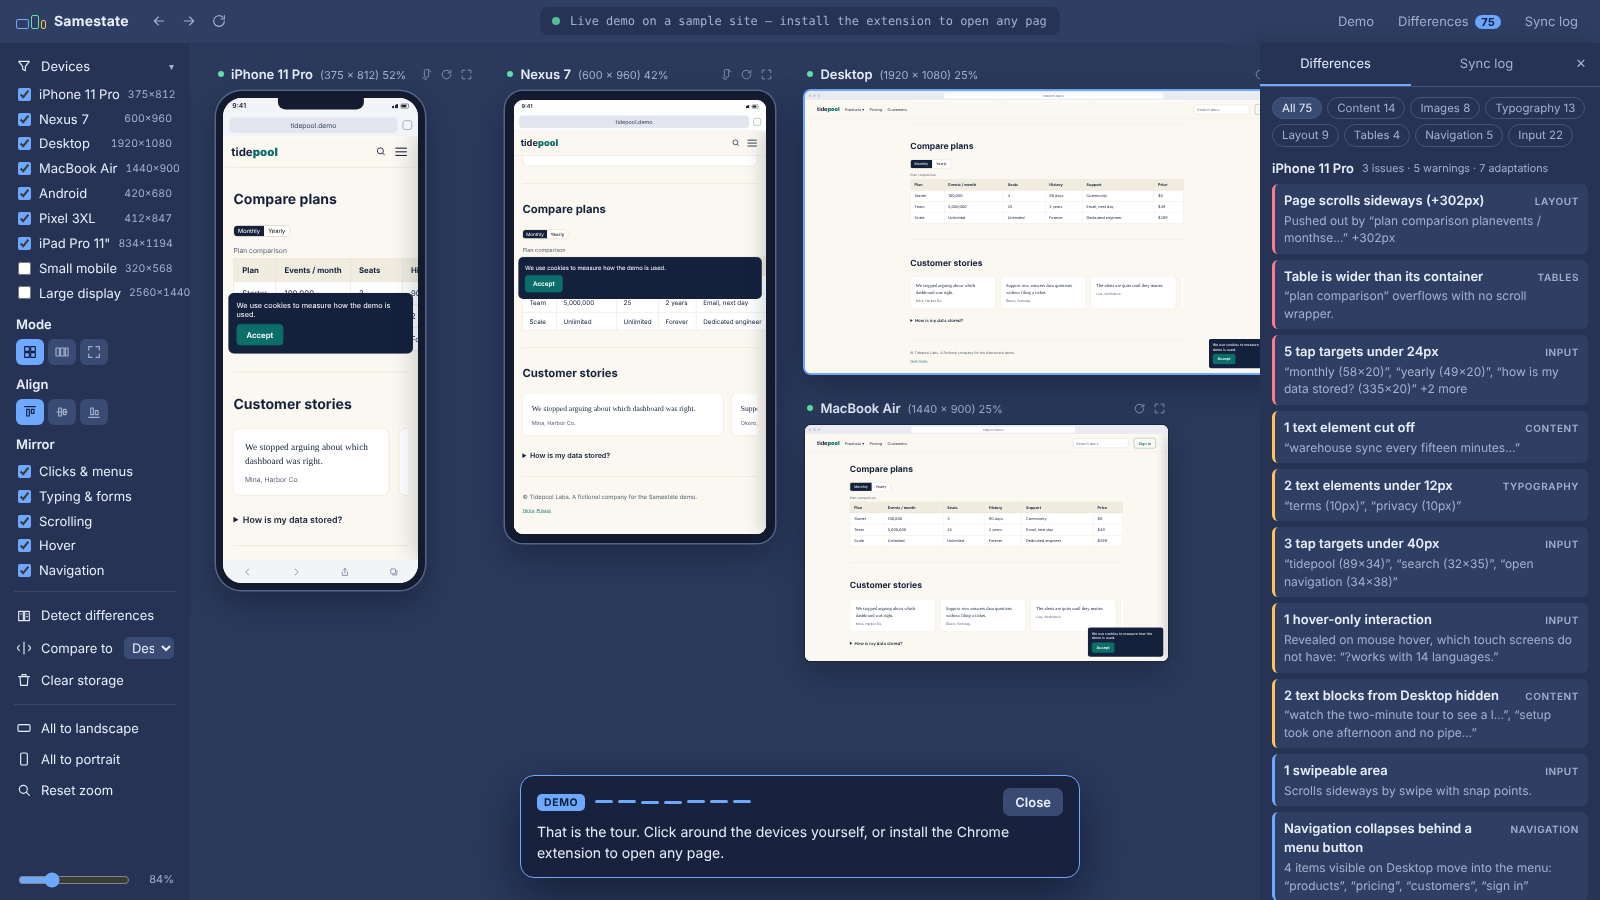
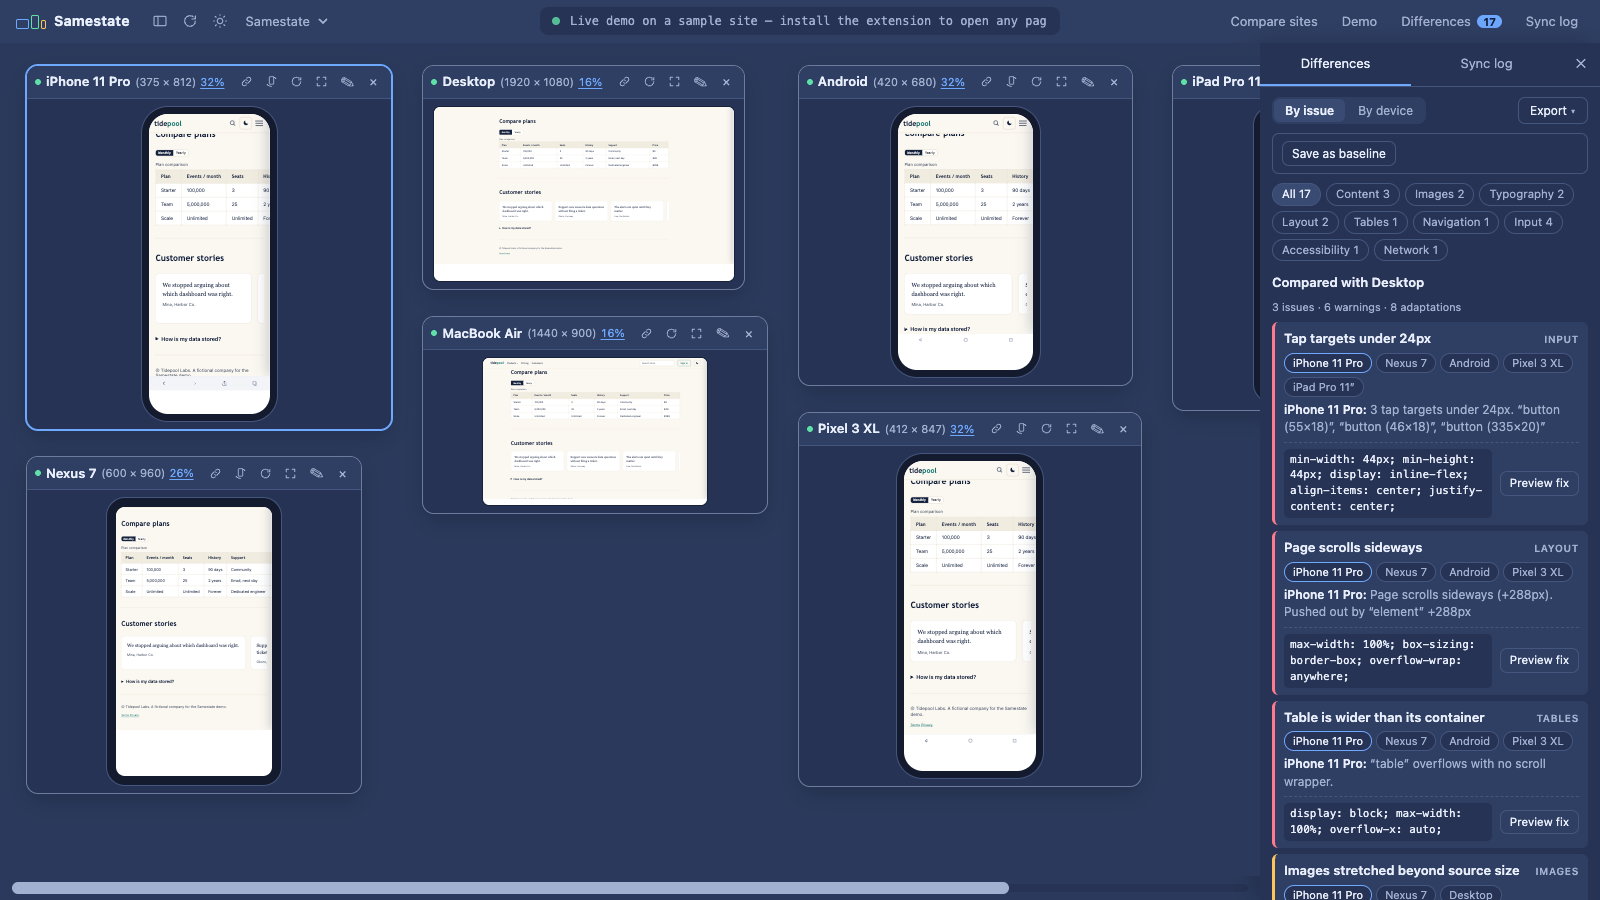
Re-record the README's GIF and screenshots from the current demo
The demo GIF, the sync and report screenshots and the link-preview card
showed the November 12 interface. tools/readme-media.mjs records them
from docs/ in headless Chrome: the guided demo's Products click on every
device, and the difference report with its new categories.

diff --git a/changelogs/CHANGELOG-readme-media.md b/changelogs/CHANGELOG-readme-media.md
@@ -1,0 +1,26 @@
+# README Media — Re-recorded from the Current Demo
+
+- `docs/media/samestate-demo.gif`: the guided demo's first step (the Desktop clicks Products; every phone and tablet opens its menu first), 11 s at 10 fps, 960×540
+- `docs/media/screenshot-sync.png`: the end of that step, all seven devices with Products open, now 1600×900
+- `docs/media/screenshot-report.png`: the difference report on the pricing table, with the Accessibility and Network categories, 1600×900
+- `docs/media/card.png`: the sync screenshot at 1200×675, the image link previews show for the live demo
+- `tools/readme-media.mjs`: new script that records all four from `docs/` in headless Chrome
+- CONTRIBUTING: the new script in the tools list
+
+---
+
+## Summary
+The README's GIF and screenshots dated from November 12 and showed the old interface: no top-bar theme menu, day/night button or Compare sites, and none of the newer report categories. They now show the current demo. `samestate-banner.png` (November 14) is unchanged.
+
+---
+
+## 1. Capture Script
+**Files:** `tools/readme-media.mjs`
+**What:** Serves the repo, opens `docs/index.html` in headless Chrome at 1600×900, hides the sidebar and lowers the zoom until every device fits the wall. It records the guided demo's first step with `Page.startScreencast` until the step's `samestate-tour-step` event, then saves the last frame as the sync screenshot. ffmpeg turns the frames into the GIF (10 fps, 192-color palette) and scales the sync screenshot to `card.png`. For the report it closes the demo, removes the sample site's cookie banner, scrolls every device to the pricing table, runs `detect(true)` and opens the Differences panel.
+**Impact:** `node tools/readme-media.mjs` refreshes the README images after an interface change.
+
+---
+
+## Testing
+- Ran `node tools/readme-media.mjs`: 644 frames over 11.1 s for the GIF; the report showed 87 findings in 10 categories, including Accessibility 1 and Network 1
+- Looked at the sync and report screenshots and at GIF frames at 2, 5, 8 and 10.5 s: all seven devices visible, the Click sync explanation, then each phone and tablet with its menu open and an "opened its menu first" badge

diff --git a/CONTRIBUTING.md b/CONTRIBUTING.md
@@ -32,6 +32,7 @@ If you change what a tour step does, update its check in `tests/smoke.mjs` (the 
 - `docs/`: the live demo
 - `tests/smoke.mjs`: the end-to-end smoke test
 - `tools/samestate-ci.mjs`: runs the difference report on any site in headless Chrome, for CI
+- `tools/readme-media.mjs`: re-records the README's GIF and screenshots (and `docs/media/card.png`) from `docs/`; run it after visible interface changes
 - `promo/`: scripts that record the promo video from `docs/` (usage at the top of `promo/record.mjs`); `stage.js` calls functions in `docs/app.js`, so re-render it after renaming them
 
 ## Pull requests
